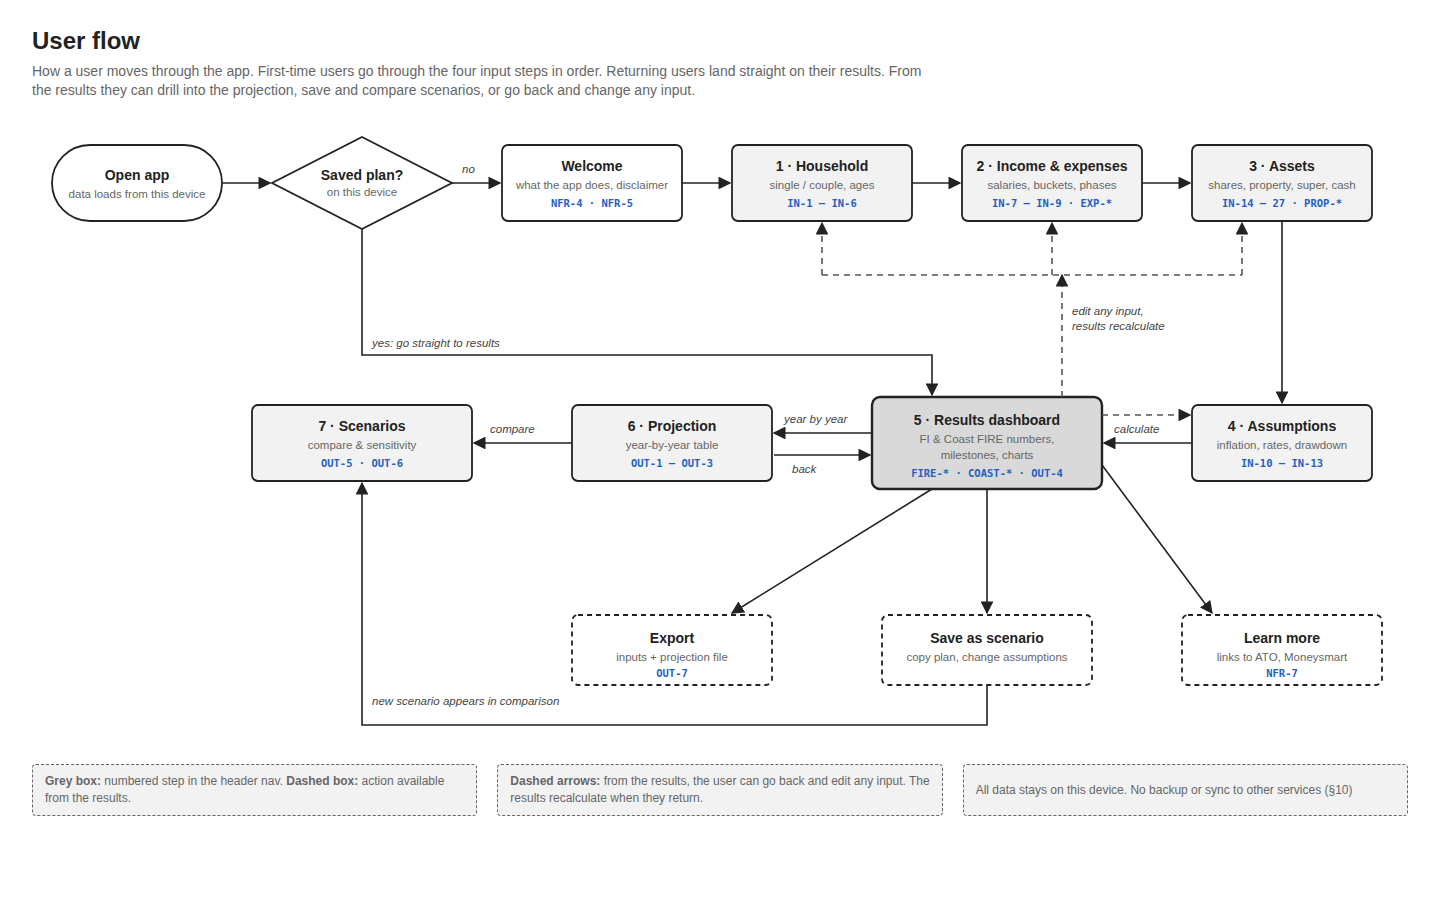
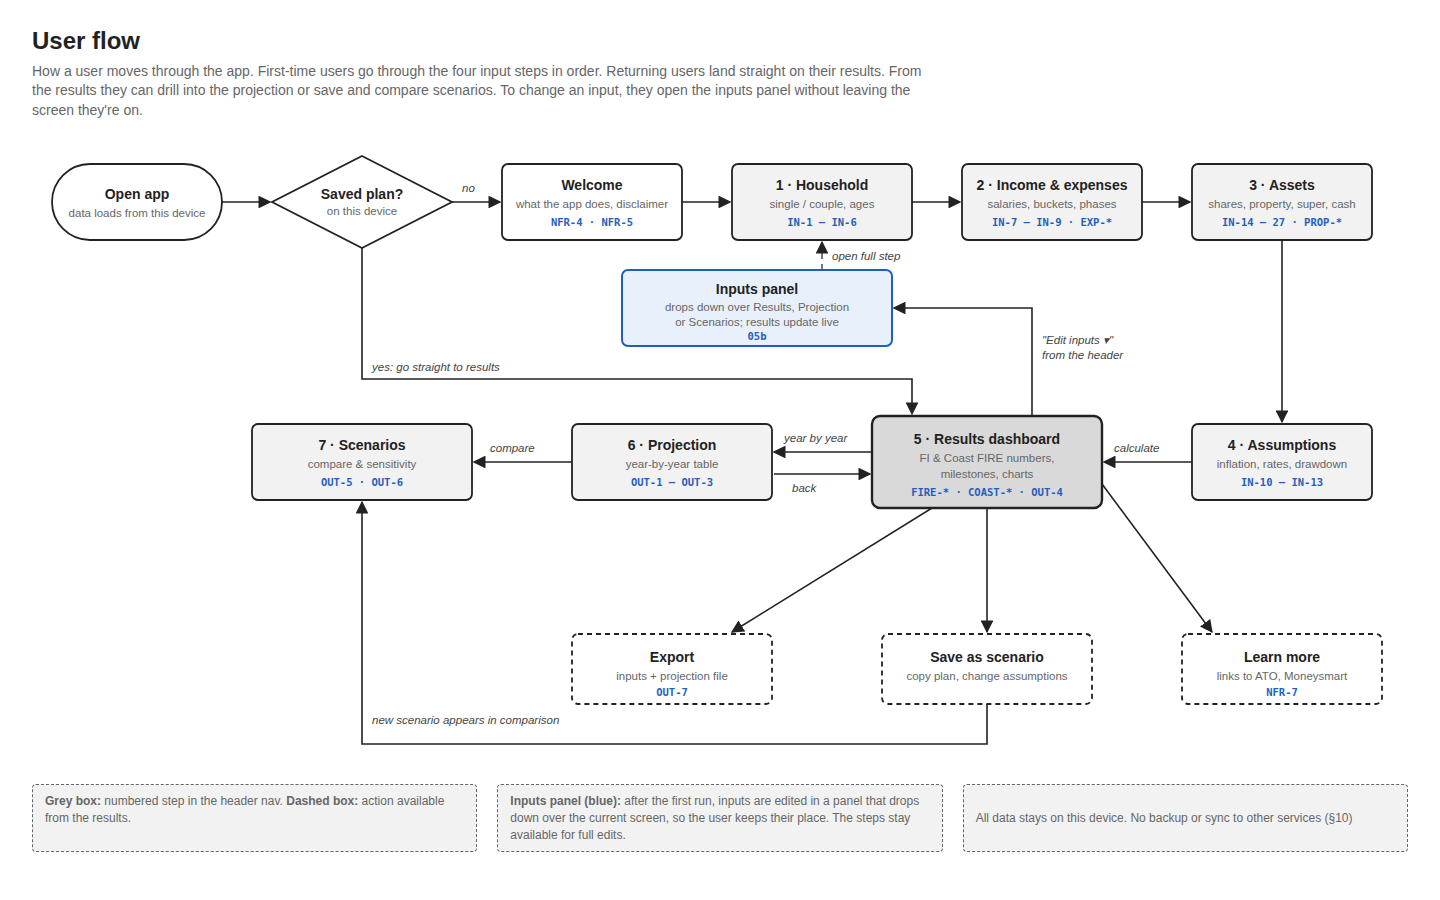
Edit inputs from a drop-down panel instead of the linear steps
Review pointed out that changing an input (e.g. a target retirement
age) while looking at results or scenarios meant going back through
the linear steps, which loses the user's place. Review suggested
showing the inputs as a panel that drops down from the top.

- 05b (new): the inputs panel open over the Results page. It has tabs
  matching the four input steps, a search box, pinned inputs that are
  most often changed, and Undo / "Save as new scenario instead". The
  results stay visible underneath and show each changed figure next to
  what it was.
- Header: an "Edit inputs ▾" button from Results onward, which also
  adds it to Year by year and Scenarios.
- 00 user flow: the dashed "go back to the steps" loop is replaced by
  the inputs panel. The panel can still open a full step when needed.

Claude-Session: https://claude.ai/code/session_01CkXEKQ2deJcmokvWZ3pCCG

diff --git a/requirements/mockups/src/05b-inputs-panel.html b/requirements/mockups/src/05b-inputs-panel.html
@@ -1,0 +1,129 @@
+<!doctype html>
+<html lang="en">
+<head>
+<meta charset="utf-8">
+<title>05b · Inputs panel</title>
+<link rel="stylesheet" href="wireframe.css">
+<style>
+  /* The panel drops down from the header and overlays the top of the page. */
+  .inputs-panel {
+    border-bottom: 3px solid var(--ink);
+    box-shadow: 0 6px 0 rgba(0, 0, 0, .08);
+    background: var(--paper);
+    padding: 14px 32px 16px;
+  }
+
+  .inputs-panel .tabs { margin-bottom: 14px; }
+  .inputs-panel .field { margin-bottom: 8px; }
+
+  .changed .input { border-color: var(--ink); border-width: 2px; }
+  .was { font-size: 11px; color: var(--ink-soft); margin-top: 2px; }
+  .was b { color: var(--ink); }
+
+  .pinned { border-left: 1.5px solid var(--line-soft); padding-left: 20px; }
+
+  .delta { display: inline-block; font-size: 11px; font-weight: 700; border: 1.5px solid var(--ink); border-radius: 3px; padding: 0 5px; margin-left: 6px; vertical-align: middle; }
+
+  /* The results underneath stay visible and recalculate live. */
+  .underneath { position: relative; }
+  .underneath::after {
+    content: "";
+    position: absolute; left: 0; right: 0; bottom: 0; height: 120px;
+    background: linear-gradient(rgba(255, 255, 255, 0), #fff);
+  }
+</style>
+</head>
+<body data-step="5" data-panel="open">
+<div class="screen">
+  <header class="app-header"></header>
+
+  <!-- Inputs panel, opened from "Edit inputs ▾" in the header. -->
+  <div class="inputs-panel">
+    <div class="row" style="align-items: center; margin-bottom: 4px">
+      <h1 class="page-title" style="font-size: 18px; margin: 0">Edit inputs</h1>
+      <span class="muted small">Editing <span class="dropdown">Base plan</span>. Changes apply straight away and the results below update live.</span>
+      <span style="flex: 1"></span>
+      <span class="input" style="width: 240px; min-height: 30px; color: var(--ink-faint)">🔍 Find an input…</span>
+      <span class="btn">Undo</span>
+      <span class="btn">Save as new scenario instead</span>
+      <span class="btn primary">Done ▴</span>
+    </div>
+
+    <div class="tabs">
+      <span class="on">Household</span><span>Income &amp; expenses</span><span>Assets</span><span>Assumptions</span>
+    </div>
+
+    <div class="row">
+      <!-- The active tab: the same inputs as the Household step, laid out compactly. -->
+      <div class="col-2">
+        <div class="grid-4">
+          <div class="field changed"><label>Alex: target retirement age <span class="req">IN-3</span></label><div class="input">48 <span class="unit">years</span></div><div class="was">was <b>50</b></div></div>
+          <div class="field"><label>Alex: super accessible at <span class="req">IN-5</span></label><div class="input default">65 <span class="unit">years</span></div></div>
+          <div class="field"><label>Sam: target retirement age <span class="req">IN-3</span></label><div class="input select">Earliest feasible</div></div>
+          <div class="field"><label>Sam: super accessible at <span class="req">IN-5</span></label><div class="input">60 <span class="unit">years</span></div></div>
+        </div>
+        <div class="grid-4">
+          <div class="field"><label>Household <span class="req">IN-1</span></label><div class="toggle"><span>Just me</span><span class="on">A couple</span></div></div>
+          <div class="field"><label>Alex: current age</label><div class="input">34</div></div>
+          <div class="field"><label>Sam: current age</label><div class="input">32</div></div>
+          <div class="field"><label>Plan until age <span class="req">IN-4</span></label><div class="input default">95</div></div>
+        </div>
+        <span class="learn">Open the full Household step →</span>
+      </div>
+
+      <!-- Pinned: the inputs people change most often, shown on every tab. -->
+      <div class="col pinned">
+        <div class="small muted" style="margin-bottom: 8px"><b>Pinned</b> · shown on every tab · <span class="learn">edit pins</span></div>
+        <div class="grid-2">
+          <div class="field"><label>Retirement spending</label><div class="input">90 <span class="unit">% of today</span></div></div>
+          <div class="field"><label>Share return</label><div class="input">8.0 <span class="unit">% / yr</span></div></div>
+          <div class="field"><label>Inflation</label><div class="input default">2.5 <span class="unit">%</span></div></div>
+          <div class="field"><label>Safe withdrawal rate</label><div class="input default">4.0 <span class="unit">%</span></div></div>
+        </div>
+      </div>
+    </div>
+  </div>
+
+  <!-- Results underneath, still visible and recalculated for the edit above. -->
+  <div class="page underneath" style="padding-top: 18px">
+    <div class="howto" style="margin-bottom: 14px"><b>Inputs panel:</b> from Results, Year by year or Scenarios, "Edit inputs ▾" drops this panel over the page instead of sending the user back through the steps.
+      The results stay in view and update as they type. Changed figures show what they were, so the effect of each edit is easy to see.</div>
+
+    <div class="grid-4" style="margin-bottom: 20px">
+      <div class="metric">
+        <div class="label">FI number <span class="req">FIRE-1</span></div>
+        <div class="value">$1.60M</div>
+        <div class="sub">unchanged</div>
+      </div>
+      <div class="metric">
+        <div class="label">Progress to FI <span class="req">FIRE-2</span></div>
+        <div class="value">45%</div>
+        <div class="sub">unchanged</div>
+      </div>
+      <div class="metric">
+        <div class="label">Retirement <span class="req">FIRE-3</span></div>
+        <div class="value">2040 <span class="delta">was 2042</span></div>
+        <div class="sub">Alex 48 · Sam 46</div>
+      </div>
+      <div class="metric">
+        <div class="label">Coast FIRE number <span class="req">COAST-1</span></div>
+        <div class="value">$860k <span class="delta">was $790k</span></div>
+        <div class="sub">a retirement 2 years earlier needs more invested today</div>
+      </div>
+    </div>
+
+    <div class="card">
+      <h3>Can you bridge to super? <span class="req">FIRE-4</span></h3>
+      <div class="row" style="align-items: center">
+        <span style="width: 260px">Bridge: outside super, 2040 → 2054</span>
+        <div style="flex: 1; height: 16px; border: 1.5px solid var(--ink); border-radius: 3px; position: relative"><b style="position: absolute; left: 0; top: 0; bottom: 0; width: 100%; background: var(--fill-dark)"></b><s style="position: absolute; top: -4px; bottom: -4px; left: 97%; border-left: 2px dashed var(--ink)"></s></div>
+        <span class="status">MET</span><span class="delta">only just: was comfortable</span>
+      </div>
+      <div class="hint" style="margin: 4px 0 0 270px">Need $880k in 2040 · projected $905k</div>
+    </div>
+    <div style="height: 120px"></div>
+  </div>
+</div>
+<script src="header.js"></script>
+</body>
+</html>

diff --git a/requirements/mockups/src/00-user-flow.html b/requirements/mockups/src/00-user-flow.html
@@ -14,6 +14,7 @@
   .flow .node.step { fill: #f2f2f2; }
   .flow .node.hub { fill: #d9d9d9; stroke-width: 2.4; }
   .flow .node.side { stroke-dasharray: 5 4; }
+  .flow .node.panel { fill: #e8f0fc; stroke: #1f5fbf; stroke-width: 2; }
   .flow .edge { stroke: #222; stroke-width: 1.6; fill: none; marker-end: url(#arrow); }
   .flow .edge.loop { stroke-dasharray: 6 5; stroke: #555; }
 </style>
@@ -25,7 +26,7 @@
     <p class="page-intro">
       How a user moves through the app. First-time users go through the four input steps in order.
       Returning users land straight on their results. From the results they can drill into the
-      projection, save and compare scenarios, or go back and change any input.
+      projection or save and compare scenarios. To change an input, they open the inputs panel without leaving the screen they're on.
     </p>
 
     <svg class="flow" viewBox="0 96 1376 630" width="1376">
@@ -113,18 +114,21 @@
       <text class="edge-label" x="1082" y="408">calculate</text>
 
       <!-- Returning users skip straight to results -->
-      <path class="edge" d="M330,204 L330,330 L900,330 L900,370"/>
-      <text class="edge-label" x="340" y="322">yes: go straight to results</text>
+      <path class="edge" d="M330,204 L330,335 L880,335 L880,370"/>
+      <text class="edge-label" x="340" y="327">yes: go straight to results</text>
 
-      <!-- Edit loop from results back to any input step -->
-      <path class="edge loop" d="M1030,372 L1030,250"/>
-      <path class="edge loop" d="M790,250 L1210,250" style="marker-end:none"/>
-      <path class="edge loop" d="M790,250 L790,198"/>
-      <path class="edge loop" d="M1020,250 L1020,198"/>
-      <path class="edge loop" d="M1210,250 L1210,198"/>
-      <path class="edge loop" d="M1070,390 L1158,390"/>
-      <text class="edge-label" x="1040" y="290">edit any input,</text>
-      <text class="edge-label" x="1040" y="305">results recalculate</text>
+      <!-- Inputs panel: edit any input without leaving the results or scenarios -->
+      <rect class="node panel" x="590" y="226" width="270" height="76" rx="6"/>
+      <text class="title" x="725" y="250" text-anchor="middle">Inputs panel</text>
+      <text class="sub" x="725" y="267" text-anchor="middle">drops down over Results, Projection</text>
+      <text class="sub" x="725" y="282" text-anchor="middle">or Scenarios; results update live</text>
+      <text class="req" x="725" y="296" text-anchor="middle">05b</text>
+
+      <path class="edge" d="M1000,372 L1000,264 L862,264"/>
+      <text class="edge-label" x="1010" y="300">"Edit inputs ▾"</text>
+      <text class="edge-label" x="1010" y="315">from the header</text>
+      <path class="edge loop" d="M790,226 L790,198"/>
+      <text class="edge-label" x="800" y="216">open full step</text>
 
       <!-- Drill-downs from the results hub -->
       <path class="edge" d="M840,408 L742,408"/>
@@ -146,7 +150,7 @@
 
     <div class="grid-3" style="margin-top: 8px">
       <div class="banner" style="display:block"><b>Grey box:</b> numbered step in the header nav. <b>Dashed box:</b> action available from the results.</div>
-      <div class="banner" style="display:block"><b>Dashed arrows:</b> from the results, the user can go back and edit any input. The results recalculate when they return.</div>
+      <div class="banner" style="display:block"><b>Inputs panel (blue):</b> after the first run, inputs are edited in a panel that drops down over the current screen, so the user keeps their place. The steps stay available for full edits.</div>
       <div class="banner">All data stays on this device. No backup or sync to other services (§10)</div>
     </div>
   </div>

diff --git a/requirements/mockups/src/header.js b/requirements/mockups/src/header.js
@@ -4,7 +4,8 @@
  * Each screen's <body> sets data-step to the step it represents (1-7).
  * This script fills the empty <header class="app-header"> with the logo,
  * the step navigation (marking earlier steps done and the current one
- * active) and the save/export actions. Keeping the header here means the
+ * active) and the header actions: "Edit inputs" (from the results
+ * onward), the plan picker and export. Keeping the header here means the
  * step list is defined once, so all screens stay consistent when the
  * flow changes.
  */
@@ -33,10 +34,19 @@
     })
     .join("");
 
+  // From the results onward (steps 5-7), inputs are edited in a panel that
+  // drops down over the current screen (05b-inputs-panel.html), so the user
+  // doesn't lose their place. data-panel="open" draws the button pressed.
+  const panelOpen = document.body.dataset.panel === "open";
+  const editInputsButton = currentStep >= 5
+    ? `<span class="btn ${panelOpen ? "primary" : ""}">Edit inputs ${panelOpen ? "▴" : "▾"}</span>`
+    : "";
+
   header.innerHTML = `
     <span class="logo">AU FIRE Planner</span>
     <nav class="steps">${stepPills}</nav>
     <div class="header-actions">
+      ${editInputsButton}
       <span class="btn ghost">Plan: "Alex &amp; Sam" ▾</span>
       <span class="btn">Export <span class="req">OUT-7</span></span>
     </div>`;

diff --git a/requirements/mockups/README.md b/requirements/mockups/README.md
@@ -34,6 +34,7 @@ They show one possible user flow and screen layout for the requirements in
 | 03d | [Assets: super, cash & debts](03d-assets-super-cash-debts.png) | IN-21 – IN-27, SUPER-1 – SUPER-9 |
 | 04 | [Assumptions](04-assumptions.png) | IN-10 – IN-13, TAX-8, NFR-3 |
 | 05 | [Results dashboard](05-results.png) | FIRE-1 – FIRE-7, COAST-1 – COAST-6, OUT-2, OUT-4, NFR-1 |
+| 05b | [Inputs panel](05b-inputs-panel.png) | Editing any input from Results, Year by year or Scenarios without leaving the page |
 | 06 | [Year by year](06-projection.png) | OUT-1 – OUT-3 (shown for a scenario with a bridge-period shortfall) |
 | 07 | [Scenarios](07-scenarios.png) | OUT-5, OUT-6 |
 
@@ -63,6 +64,9 @@ They show one possible user flow and screen layout for the requirements in
 
 ### 05 · Results dashboard
 ![Results](05-results.png)
+
+### 05b · Inputs panel
+![Inputs panel open over the results](05b-inputs-panel.png)
 
 ### 06 · Year by year
 ![Year by year projection](06-projection.png)
